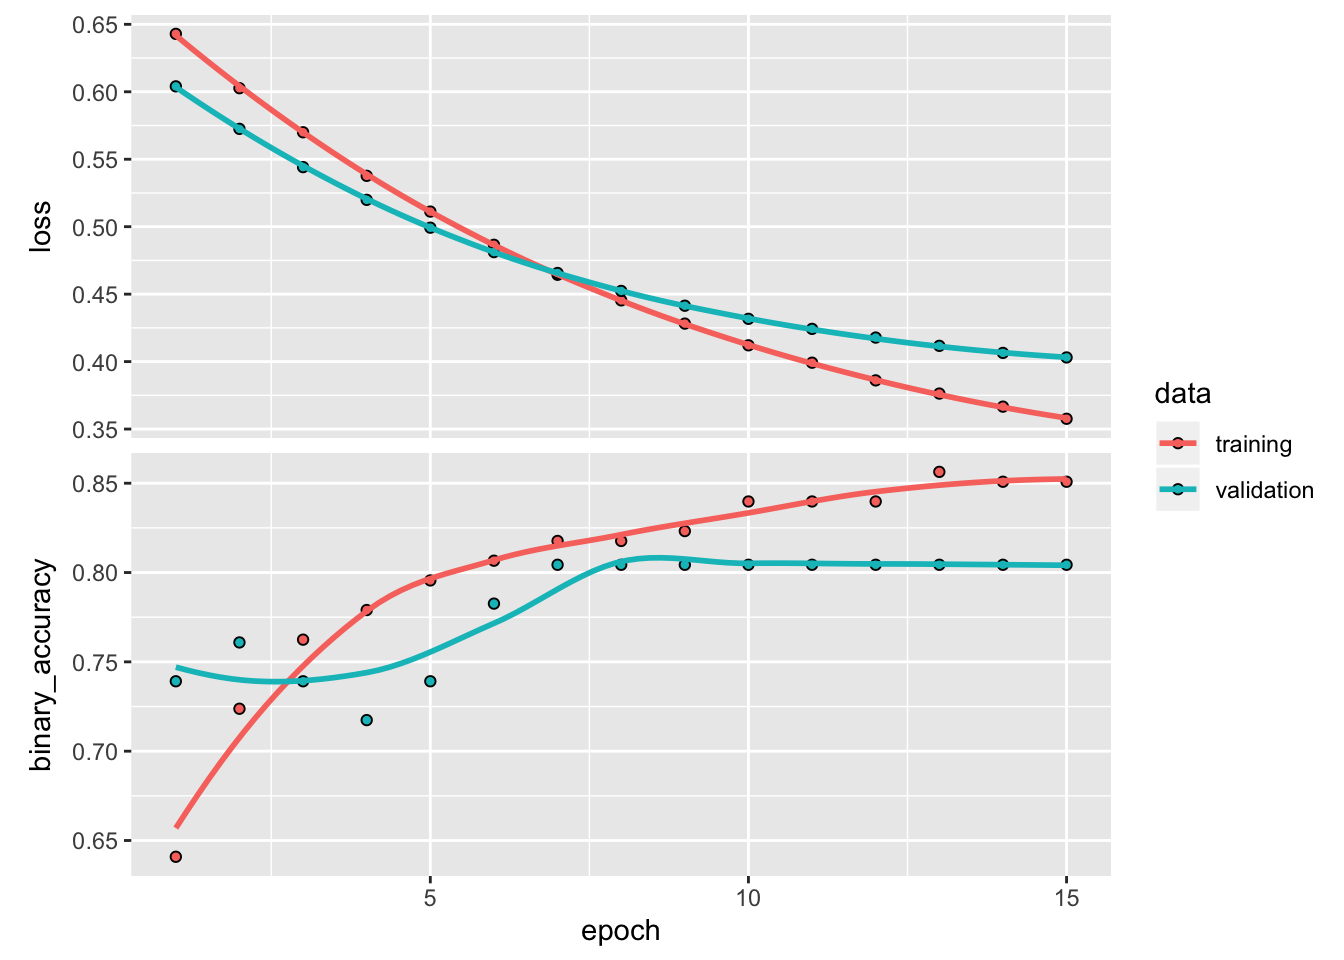
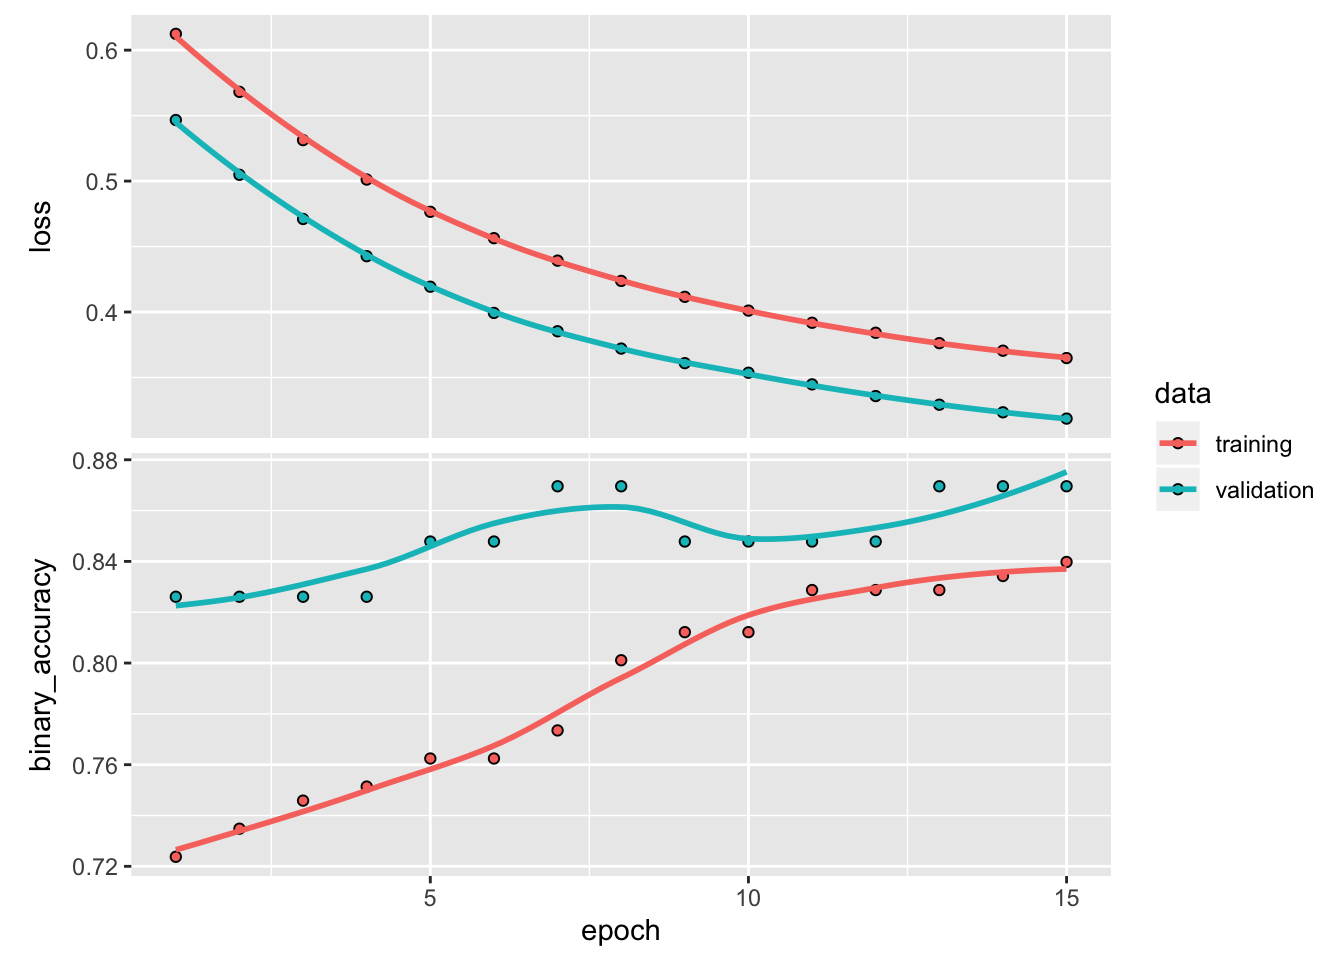
rerun articles

diff --git a/content/guide/tfdatasets/feature_spec.html b/content/guide/tfdatasets/feature_spec.html
@@ -150,17 +150,17 @@ for the categorical variables.</p>
 <p>After preparing we can see the list of dense features that were defined:</p>
 <div class="sourceCode" id="cb18"><pre class="sourceCode r"><code class="sourceCode r"><a class="sourceLine" id="cb18-1" data-line-number="1"><span class="kw"><a href="https://rdrr.io/r/utils/str.html">str</a></span>(spec_prep<span class="op">$</span><span class="kw"><a href="../../tools/tfdatasets/reference/dense_features.html">dense_features</a></span>())</a></code></pre></div>
 <pre><code>## List of 11
-##  $ age                                  :NumericColumn(key='age', shape=(1,), default_value=None, dtype=tf.float32, normalizer_fn=&lt;function make_python_function.&lt;locals&gt;.python_function at 0x1325f8c80&gt;)
-##  $ trestbps                             :NumericColumn(key='trestbps', shape=(1,), default_value=None, dtype=tf.float32, normalizer_fn=&lt;function make_python_function.&lt;locals&gt;.python_function at 0x12ee810d0&gt;)
-##  $ chol                                 :NumericColumn(key='chol', shape=(1,), default_value=None, dtype=tf.float32, normalizer_fn=&lt;function make_python_function.&lt;locals&gt;.python_function at 0x12ee81400&gt;)
-##  $ thalach                              :NumericColumn(key='thalach', shape=(1,), default_value=None, dtype=tf.float32, normalizer_fn=&lt;function make_python_function.&lt;locals&gt;.python_function at 0x12ee81048&gt;)
-##  $ oldpeak                              :NumericColumn(key='oldpeak', shape=(1,), default_value=None, dtype=tf.float32, normalizer_fn=&lt;function make_python_function.&lt;locals&gt;.python_function at 0x12ee81268&gt;)
-##  $ slope                                :NumericColumn(key='slope', shape=(1,), default_value=None, dtype=tf.float32, normalizer_fn=&lt;function make_python_function.&lt;locals&gt;.python_function at 0x12ee812f0&gt;)
-##  $ ca                                   :NumericColumn(key='ca', shape=(1,), default_value=None, dtype=tf.float32, normalizer_fn=&lt;function make_python_function.&lt;locals&gt;.python_function at 0x12ee81378&gt;)
-##  $ bucketized_age                       :BucketizedColumn(source_column=NumericColumn(key='age', shape=(1,), default_value=None, dtype=tf.float32, normalizer_fn=&lt;function make_python_function.&lt;locals&gt;.python_function at 0x1325f8c80&gt;), boundaries=(18.0, 25.0, 30.0, 35.0, 40.0, 45.0, 50.0, 55.0, 60.0, 65.0))
-##  $ indicator_thal                       :IndicatorColumn(categorical_column=VocabularyListCategoricalColumn(key='thal', vocabulary_list=('fixed', 'normal', 'reversible'), dtype=tf.string, default_value=-1, num_oov_buckets=0))
-##  $ embedding_thal                       :EmbeddingColumn(categorical_column=VocabularyListCategoricalColumn(key='thal', vocabulary_list=('fixed', 'normal', 'reversible'), dtype=tf.string, default_value=-1, num_oov_buckets=0), dimension=2, combiner='mean', initializer=&lt;tensorflow.python.ops.init_ops.TruncatedNormal&gt;, ckpt_to_load_from=None, tensor_name_in_ckpt=None, max_norm=None, trainable=True)
-##  $ indicator_crossed_thal_bucketized_age:IndicatorColumn(categorical_column=CrossedColumn(keys=(VocabularyListCategoricalColumn(key='thal', vocabulary_list=('fixed', 'normal', 'reversible'), dtype=tf.string, default_value=-1, num_oov_buckets=0), BucketizedColumn(source_column=NumericColumn(key='age', shape=(1,), default_value=None, dtype=tf.float32, normalizer_fn=&lt;function make_python_function.&lt;locals&gt;.python_function at 0x1325f8c80&gt;), boundaries=(18.0, 25.0, 30.0, 35.0, 40.0, 45.0, 50.0, 55.0, 60.0, 65.0))), hash_bucket_size=10.0, hash_key=None))</code></pre>
+##  $ age                                  :NumericColumn(key='age', shape=(1,), default_value=None, dtype=tf.float32, normalizer_fn=&lt;function make_python_function.&lt;locals&gt;.python_function at 0x142463ae8&gt;)
+##  $ trestbps                             :NumericColumn(key='trestbps', shape=(1,), default_value=None, dtype=tf.float32, normalizer_fn=&lt;function make_python_function.&lt;locals&gt;.python_function at 0x142463c80&gt;)
+##  $ chol                                 :NumericColumn(key='chol', shape=(1,), default_value=None, dtype=tf.float32, normalizer_fn=&lt;function make_python_function.&lt;locals&gt;.python_function at 0x142463048&gt;)
+##  $ thalach                              :NumericColumn(key='thalach', shape=(1,), default_value=None, dtype=tf.float32, normalizer_fn=&lt;function make_python_function.&lt;locals&gt;.python_function at 0x1424637b8&gt;)
+##  $ oldpeak                              :NumericColumn(key='oldpeak', shape=(1,), default_value=None, dtype=tf.float32, normalizer_fn=&lt;function make_python_function.&lt;locals&gt;.python_function at 0x1424632f0&gt;)
+##  $ slope                                :NumericColumn(key='slope', shape=(1,), default_value=None, dtype=tf.float32, normalizer_fn=&lt;function make_python_function.&lt;locals&gt;.python_function at 0x142463598&gt;)
+##  $ ca                                   :NumericColumn(key='ca', shape=(1,), default_value=None, dtype=tf.float32, normalizer_fn=&lt;function make_python_function.&lt;locals&gt;.python_function at 0x142463d90&gt;)
+##  $ bucketized_age                       :BucketizedColumn(source_column=NumericColumn(key='age', shape=(1,), default_value=None, dtype=tf.float32, normalizer_fn=&lt;function make_python_function.&lt;locals&gt;.python_function at 0x142463ae8&gt;), boundaries=(18.0, 25.0, 30.0, 35.0, 40.0, 45.0, 50.0, 55.0, 60.0, 65.0))
+##  $ indicator_thal                       :IndicatorColumn(categorical_column=VocabularyListCategoricalColumn(key='thal', vocabulary_list=('1', '2', 'fixed', 'normal', 'reversible'), dtype=tf.string, default_value=-1, num_oov_buckets=0))
+##  $ embedding_thal                       :EmbeddingColumn(categorical_column=VocabularyListCategoricalColumn(key='thal', vocabulary_list=('1', '2', 'fixed', 'normal', 'reversible'), dtype=tf.string, default_value=-1, num_oov_buckets=0), dimension=2, combiner='mean', initializer=&lt;tensorflow.python.ops.init_ops.TruncatedNormal&gt;, ckpt_to_load_from=None, tensor_name_in_ckpt=None, max_norm=None, trainable=True)
+##  $ indicator_crossed_thal_bucketized_age:IndicatorColumn(categorical_column=CrossedColumn(keys=(VocabularyListCategoricalColumn(key='thal', vocabulary_list=('1', '2', 'fixed', 'normal', 'reversible'), dtype=tf.string, default_value=-1, num_oov_buckets=0), BucketizedColumn(source_column=NumericColumn(key='age', shape=(1,), default_value=None, dtype=tf.float32, normalizer_fn=&lt;function make_python_function.&lt;locals&gt;.python_function at 0x142463ae8&gt;), boundaries=(18.0, 25.0, 30.0, 35.0, 40.0, 45.0, 50.0, 55.0, 60.0, 65.0))), hash_bucket_size=10.0, hash_key=None))</code></pre>
 <p>Now we are ready to define our model in Keras. We will use a specialized <code>layer_dense_features</code> that
 knows what to do with the feature columns specification.</p>
 <p>We also use a new <code>layer_input_from_dataset</code> that is useful to create a Keras input object copying the structure from a <code>data.frame</code> or TensorFlow dataset.</p>
@@ -191,69 +191,69 @@ knows what to do with the feature columns specification.</p>
 <pre><code>## Train on 181 samples, validate on 46 samples
 ## Epoch 1/15
 ## 
- 32/181 [====&gt;.........................] - ETA: 4s - loss: 0.6473 - binary_accuracy: 0.6562
-181/181 [==============================] - 1s 8ms/sample - loss: 0.6429 - binary_accuracy: 0.6409 - val_loss: 0.6040 - val_binary_accuracy: 0.7391
+ 32/181 [====&gt;.........................] - ETA: 4s - loss: 0.6473 - binary_accuracy: 0.7188
+181/181 [==============================] - 1s 7ms/sample - loss: 0.6124 - binary_accuracy: 0.7238 - val_loss: 0.5466 - val_binary_accuracy: 0.8261
 ## Epoch 2/15
 ## 
- 32/181 [====&gt;.........................] - ETA: 0s - loss: 0.5818 - binary_accuracy: 0.7500
-181/181 [==============================] - 0s 270us/sample - loss: 0.6027 - binary_accuracy: 0.7238 - val_loss: 0.5725 - val_binary_accuracy: 0.7609
+ 32/181 [====&gt;.........................] - ETA: 0s - loss: 0.5793 - binary_accuracy: 0.7812
+181/181 [==============================] - 0s 195us/sample - loss: 0.5682 - binary_accuracy: 0.7348 - val_loss: 0.5048 - val_binary_accuracy: 0.8261
 ## Epoch 3/15
 ## 
- 32/181 [====&gt;.........................] - ETA: 0s - loss: 0.5221 - binary_accuracy: 0.8438
-181/181 [==============================] - 0s 182us/sample - loss: 0.5700 - binary_accuracy: 0.7624 - val_loss: 0.5442 - val_binary_accuracy: 0.7391
+ 32/181 [====&gt;.........................] - ETA: 0s - loss: 0.5619 - binary_accuracy: 0.6875
+181/181 [==============================] - 0s 149us/sample - loss: 0.5313 - binary_accuracy: 0.7459 - val_loss: 0.4711 - val_binary_accuracy: 0.8261
 ## Epoch 4/15
 ## 
- 32/181 [====&gt;.........................] - ETA: 0s - loss: 0.5903 - binary_accuracy: 0.7500
-181/181 [==============================] - 0s 171us/sample - loss: 0.5377 - binary_accuracy: 0.7790 - val_loss: 0.5199 - val_binary_accuracy: 0.7174
+ 32/181 [====&gt;.........................] - ETA: 0s - loss: 0.4983 - binary_accuracy: 0.7812
+181/181 [==============================] - 0s 144us/sample - loss: 0.5012 - binary_accuracy: 0.7514 - val_loss: 0.4426 - val_binary_accuracy: 0.8261
 ## Epoch 5/15
 ## 
- 32/181 [====&gt;.........................] - ETA: 0s - loss: 0.5387 - binary_accuracy: 0.7812
-181/181 [==============================] - 0s 177us/sample - loss: 0.5112 - binary_accuracy: 0.7956 - val_loss: 0.4993 - val_binary_accuracy: 0.7391
+ 32/181 [====&gt;.........................] - ETA: 0s - loss: 0.5948 - binary_accuracy: 0.6875
+181/181 [==============================] - 0s 147us/sample - loss: 0.4765 - binary_accuracy: 0.7624 - val_loss: 0.4193 - val_binary_accuracy: 0.8478
 ## Epoch 6/15
 ## 
- 32/181 [====&gt;.........................] - ETA: 0s - loss: 0.4161 - binary_accuracy: 0.8750
-181/181 [==============================] - 0s 180us/sample - loss: 0.4866 - binary_accuracy: 0.8066 - val_loss: 0.4812 - val_binary_accuracy: 0.7826
+ 32/181 [====&gt;.........................] - ETA: 0s - loss: 0.4236 - binary_accuracy: 0.7812
+181/181 [==============================] - 0s 144us/sample - loss: 0.4564 - binary_accuracy: 0.7624 - val_loss: 0.3993 - val_binary_accuracy: 0.8478
 ## Epoch 7/15
 ## 
- 32/181 [====&gt;.........................] - ETA: 0s - loss: 0.5420 - binary_accuracy: 0.7500
-181/181 [==============================] - 0s 179us/sample - loss: 0.4644 - binary_accuracy: 0.8177 - val_loss: 0.4657 - val_binary_accuracy: 0.8043
+ 32/181 [====&gt;.........................] - ETA: 0s - loss: 0.4800 - binary_accuracy: 0.6250
+181/181 [==============================] - 0s 146us/sample - loss: 0.4392 - binary_accuracy: 0.7735 - val_loss: 0.3853 - val_binary_accuracy: 0.8696
 ## Epoch 8/15
 ## 
- 32/181 [====&gt;.........................] - ETA: 0s - loss: 0.4529 - binary_accuracy: 0.8750
-181/181 [==============================] - 0s 206us/sample - loss: 0.4454 - binary_accuracy: 0.8177 - val_loss: 0.4524 - val_binary_accuracy: 0.8043
+ 32/181 [====&gt;.........................] - ETA: 0s - loss: 0.3958 - binary_accuracy: 0.8125
+181/181 [==============================] - 0s 143us/sample - loss: 0.4238 - binary_accuracy: 0.8011 - val_loss: 0.3721 - val_binary_accuracy: 0.8696
 ## Epoch 9/15
 ## 
- 32/181 [====&gt;.........................] - ETA: 0s - loss: 0.4331 - binary_accuracy: 0.8125
-181/181 [==============================] - 0s 183us/sample - loss: 0.4282 - binary_accuracy: 0.8232 - val_loss: 0.4414 - val_binary_accuracy: 0.8043
+ 32/181 [====&gt;.........................] - ETA: 0s - loss: 0.4194 - binary_accuracy: 0.7500
+181/181 [==============================] - 0s 153us/sample - loss: 0.4116 - binary_accuracy: 0.8122 - val_loss: 0.3610 - val_binary_accuracy: 0.8478
 ## Epoch 10/15
 ## 
- 32/181 [====&gt;.........................] - ETA: 0s - loss: 0.3982 - binary_accuracy: 0.8125
-181/181 [==============================] - 0s 178us/sample - loss: 0.4121 - binary_accuracy: 0.8398 - val_loss: 0.4317 - val_binary_accuracy: 0.8043
+ 32/181 [====&gt;.........................] - ETA: 0s - loss: 0.5857 - binary_accuracy: 0.6250
+181/181 [==============================] - 0s 139us/sample - loss: 0.4011 - binary_accuracy: 0.8122 - val_loss: 0.3536 - val_binary_accuracy: 0.8478
 ## Epoch 11/15
 ## 
- 32/181 [====&gt;.........................] - ETA: 0s - loss: 0.4141 - binary_accuracy: 0.8438
-181/181 [==============================] - 0s 195us/sample - loss: 0.3992 - binary_accuracy: 0.8398 - val_loss: 0.4243 - val_binary_accuracy: 0.8043
+ 32/181 [====&gt;.........................] - ETA: 0s - loss: 0.3489 - binary_accuracy: 0.8750
+181/181 [==============================] - 0s 143us/sample - loss: 0.3918 - binary_accuracy: 0.8287 - val_loss: 0.3448 - val_binary_accuracy: 0.8478
 ## Epoch 12/15
 ## 
- 32/181 [====&gt;.........................] - ETA: 0s - loss: 0.4859 - binary_accuracy: 0.7188
-181/181 [==============================] - 0s 180us/sample - loss: 0.3861 - binary_accuracy: 0.8398 - val_loss: 0.4178 - val_binary_accuracy: 0.8043
+ 32/181 [====&gt;.........................] - ETA: 0s - loss: 0.3137 - binary_accuracy: 0.8438
+181/181 [==============================] - 0s 140us/sample - loss: 0.3842 - binary_accuracy: 0.8287 - val_loss: 0.3358 - val_binary_accuracy: 0.8478
 ## Epoch 13/15
 ## 
- 32/181 [====&gt;.........................] - ETA: 0s - loss: 0.3767 - binary_accuracy: 0.8750
-181/181 [==============================] - 0s 174us/sample - loss: 0.3763 - binary_accuracy: 0.8564 - val_loss: 0.4117 - val_binary_accuracy: 0.8043
+ 32/181 [====&gt;.........................] - ETA: 0s - loss: 0.3659 - binary_accuracy: 0.8438
+181/181 [==============================] - 0s 144us/sample - loss: 0.3762 - binary_accuracy: 0.8287 - val_loss: 0.3292 - val_binary_accuracy: 0.8696
 ## Epoch 14/15
 ## 
- 32/181 [====&gt;.........................] - ETA: 0s - loss: 0.3181 - binary_accuracy: 0.8750
-181/181 [==============================] - 0s 176us/sample - loss: 0.3666 - binary_accuracy: 0.8508 - val_loss: 0.4064 - val_binary_accuracy: 0.8043
+ 32/181 [====&gt;.........................] - ETA: 0s - loss: 0.3289 - binary_accuracy: 0.8750
+181/181 [==============================] - 0s 142us/sample - loss: 0.3705 - binary_accuracy: 0.8343 - val_loss: 0.3234 - val_binary_accuracy: 0.8696
 ## Epoch 15/15
 ## 
- 32/181 [====&gt;.........................] - ETA: 0s - loss: 0.3101 - binary_accuracy: 0.9062
-181/181 [==============================] - 0s 171us/sample - loss: 0.3576 - binary_accuracy: 0.8508 - val_loss: 0.4031 - val_binary_accuracy: 0.8043</code></pre>
+ 32/181 [====&gt;.........................] - ETA: 0s - loss: 0.3148 - binary_accuracy: 0.8750
+181/181 [==============================] - 0s 137us/sample - loss: 0.3648 - binary_accuracy: 0.8398 - val_loss: 0.3186 - val_binary_accuracy: 0.8696</code></pre>
 <div class="sourceCode" id="cb23"><pre class="sourceCode r"><code class="sourceCode r"><a class="sourceLine" id="cb23-1" data-line-number="1"><span class="kw"><a href="https://rdrr.io/r/graphics/plot.html">plot</a></span>(history)</a></code></pre></div>
 <p><img src="/guide/tfdatasets/feature_spec_files/figure-html/unnamed-chunk-14-1.png" width="672"></p>
 <p>Finally we can make predictions in the test set and calculate performance
 metrics like the AUC of the ROC curve:</p>
 <div class="sourceCode" id="cb24"><pre class="sourceCode r"><code class="sourceCode r"><a class="sourceLine" id="cb24-1" data-line-number="1">hearts_test<span class="op">$</span>pred &lt;-<span class="st"> </span><span class="kw"><a href="https://rdrr.io/r/stats/predict.html">predict</a></span>(model, hearts_test)</a>
 <a class="sourceLine" id="cb24-2" data-line-number="2">Metrics<span class="op">::</span><span class="kw"><a href="https://rdrr.io/pkg/Metrics/man/auc.html">auc</a></span>(hearts_test<span class="op">$</span>target, hearts_test<span class="op">$</span>pred)</a></code></pre></div>
-<pre><code>## [1] 0.8840792</code></pre>
+<pre><code>## [1] 0.9285714</code></pre>
 </div>

diff --git a/content/guide/tfdatasets/feature_columns.html b/content/guide/tfdatasets/feature_columns.html
@@ -375,42 +375,42 @@ function from Keras to create a layer that will automatically initialize values.
 <pre><code>## Train on 242 samples, validate on 61 samples
 ## Epoch 1/10
 ## 
- 32/242 [==&gt;...........................] - ETA: 6s - loss: 0.8442 - accuracy: 0.3750
-242/242 [==============================] - 1s 5ms/sample - loss: 0.7671 - accuracy: 0.4545 - val_loss: 0.6949 - val_accuracy: 0.5574
+ 32/242 [==&gt;...........................] - ETA: 5s - loss: 0.9139 - accuracy: 0.3125
+242/242 [==============================] - 1s 5ms/sample - loss: 0.7883 - accuracy: 0.4215 - val_loss: 0.7556 - val_accuracy: 0.4918
 ## Epoch 2/10
 ## 
- 32/242 [==&gt;...........................] - ETA: 0s - loss: 0.7770 - accuracy: 0.5312
-242/242 [==============================] - 0s 182us/sample - loss: 0.7493 - accuracy: 0.4876 - val_loss: 0.6825 - val_accuracy: 0.5738
+ 32/242 [==&gt;...........................] - ETA: 0s - loss: 0.7807 - accuracy: 0.4375
+242/242 [==============================] - 0s 161us/sample - loss: 0.7700 - accuracy: 0.4711 - val_loss: 0.7420 - val_accuracy: 0.4918
 ## Epoch 3/10
 ## 
- 32/242 [==&gt;...........................] - ETA: 0s - loss: 0.7159 - accuracy: 0.4688
-242/242 [==============================] - 0s 128us/sample - loss: 0.7327 - accuracy: 0.5083 - val_loss: 0.6706 - val_accuracy: 0.5902
+ 32/242 [==&gt;...........................] - ETA: 0s - loss: 0.7109 - accuracy: 0.5625
+242/242 [==============================] - 0s 130us/sample - loss: 0.7531 - accuracy: 0.5124 - val_loss: 0.7286 - val_accuracy: 0.4918
 ## Epoch 4/10
 ## 
- 32/242 [==&gt;...........................] - ETA: 0s - loss: 0.7092 - accuracy: 0.5625
-242/242 [==============================] - 0s 128us/sample - loss: 0.7166 - accuracy: 0.5413 - val_loss: 0.6590 - val_accuracy: 0.5902
+ 32/242 [==&gt;...........................] - ETA: 0s - loss: 0.7075 - accuracy: 0.6562
+242/242 [==============================] - 0s 141us/sample - loss: 0.7367 - accuracy: 0.5207 - val_loss: 0.7157 - val_accuracy: 0.5246
 ## Epoch 5/10
 ## 
- 32/242 [==&gt;...........................] - ETA: 0s - loss: 0.6479 - accuracy: 0.5625
-242/242 [==============================] - 0s 135us/sample - loss: 0.7010 - accuracy: 0.5579 - val_loss: 0.6479 - val_accuracy: 0.6066
+ 32/242 [==&gt;...........................] - ETA: 0s - loss: 0.6843 - accuracy: 0.6250
+242/242 [==============================] - 0s 145us/sample - loss: 0.7201 - accuracy: 0.5413 - val_loss: 0.7036 - val_accuracy: 0.5410
 ## Epoch 6/10
 ## 
- 32/242 [==&gt;...........................] - ETA: 0s - loss: 0.7062 - accuracy: 0.5000
-242/242 [==============================] - 0s 133us/sample - loss: 0.6865 - accuracy: 0.5579 - val_loss: 0.6372 - val_accuracy: 0.6393
+ 32/242 [==&gt;...........................] - ETA: 0s - loss: 0.6487 - accuracy: 0.6562
+242/242 [==============================] - 0s 116us/sample - loss: 0.7053 - accuracy: 0.5661 - val_loss: 0.6916 - val_accuracy: 0.5410
 ## Epoch 7/10
 ## 
- 32/242 [==&gt;...........................] - ETA: 0s - loss: 0.6531 - accuracy: 0.6250
-242/242 [==============================] - 0s 136us/sample - loss: 0.6723 - accuracy: 0.5868 - val_loss: 0.6269 - val_accuracy: 0.6721
+ 32/242 [==&gt;...........................] - ETA: 0s - loss: 0.7360 - accuracy: 0.5312
+242/242 [==============================] - 0s 127us/sample - loss: 0.6909 - accuracy: 0.5744 - val_loss: 0.6801 - val_accuracy: 0.5574
 ## Epoch 8/10
 ## 
- 32/242 [==&gt;...........................] - ETA: 0s - loss: 0.6611 - accuracy: 0.6250
-242/242 [==============================] - 0s 127us/sample - loss: 0.6589 - accuracy: 0.6033 - val_loss: 0.6170 - val_accuracy: 0.6885
+ 32/242 [==&gt;...........................] - ETA: 0s - loss: 0.6623 - accuracy: 0.5625
+242/242 [==============================] - 0s 120us/sample - loss: 0.6768 - accuracy: 0.5950 - val_loss: 0.6695 - val_accuracy: 0.5738
 ## Epoch 9/10
 ## 
- 32/242 [==&gt;...........................] - ETA: 0s - loss: 0.6570 - accuracy: 0.5625
-242/242 [==============================] - 0s 123us/sample - loss: 0.6458 - accuracy: 0.6116 - val_loss: 0.6076 - val_accuracy: 0.6885
+ 32/242 [==&gt;...........................] - ETA: 0s - loss: 0.7443 - accuracy: 0.5312
+242/242 [==============================] - 0s 134us/sample - loss: 0.6634 - accuracy: 0.6033 - val_loss: 0.6593 - val_accuracy: 0.5738
 ## Epoch 10/10
 ## 
- 32/242 [==&gt;...........................] - ETA: 0s - loss: 0.6365 - accuracy: 0.5625
-242/242 [==============================] - 0s 124us/sample - loss: 0.6335 - accuracy: 0.6116 - val_loss: 0.5985 - val_accuracy: 0.7049</code></pre>
+ 32/242 [==&gt;...........................] - ETA: 0s - loss: 0.6868 - accuracy: 0.6562
+242/242 [==============================] - 0s 136us/sample - loss: 0.6507 - accuracy: 0.6281 - val_loss: 0.6493 - val_accuracy: 0.5738</code></pre>
 </div>
